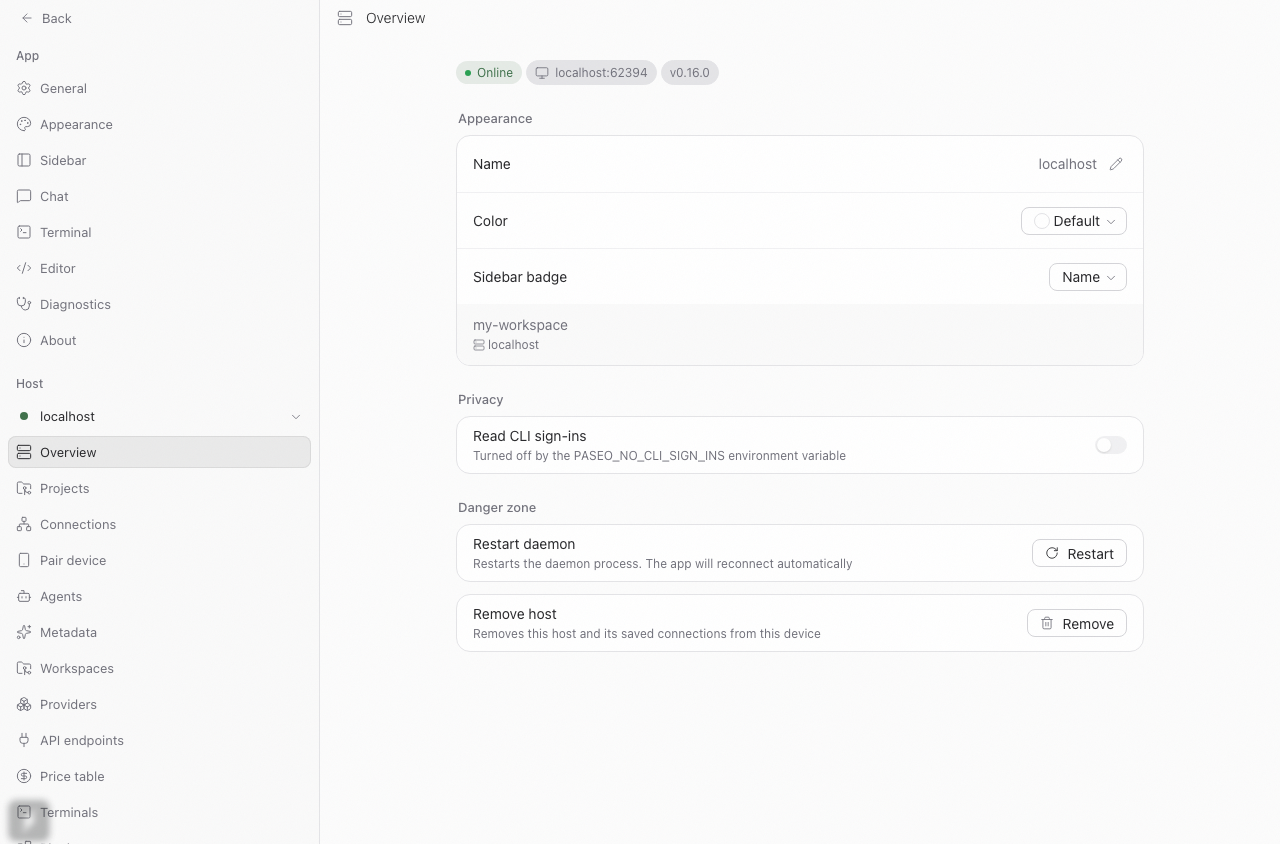
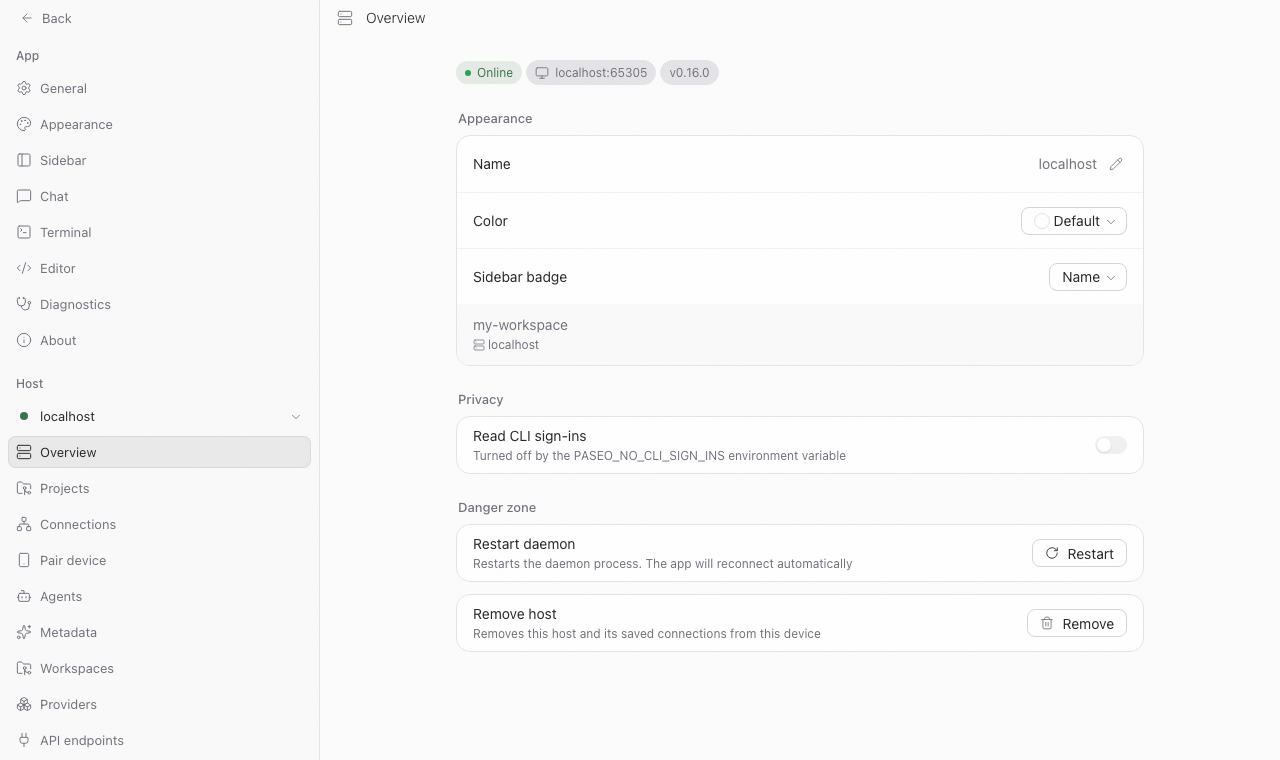
fix(privacy): 工单 04 审查修正

diff --git a/packages/server/src/server/plugins/usage-sources.e2e.test.ts b/packages/server/src/server/plugins/usage-sources.e2e.test.ts
@@ -434,51 +434,76 @@ test("with Read CLI sign-ins off no usage source runs, both lists are empty and 
   }
 }, 60_000);
 
-test("PASEO_NO_CLI_SIGN_INS holds Read CLI sign-ins off for the run: marked in the config, no source runs, the switch can't change and the stored value stays", async () => {
+test("PASEO_NO_CLI_SIGN_INS holds Read CLI sign-ins off for the run: marked in the config, no source runs, the switch can't change; restarted without it the stored value applies", async () => {
   const { readFile } = await import("node:fs/promises");
   const root = await mkdtemp(path.join(os.tmpdir(), "usage-cli-sign-ins-env-"));
   const calls = path.join(root, "calls.log");
   await writeFile(calls, "");
   const builtins = path.join(root, "builtin");
   await writeRecordingSource(path.join(builtins, "recording-builtin"), "recording-builtin", calls);
-  const daemon = await createTestPaseoDaemon({
-    daemonVersion: "0.9.2",
-    pluginsEnabled: true,
-    builtinPlugins: new BuiltinPluginLoader(builtins, ["recording-builtin"]),
-    readCliSignInsForcedOff: true,
-  });
-  const client = new DaemonClient({ url: `ws://127.0.0.1:${daemon.port}/ws`, appVersion: "0.9.2" });
-  const configFile = path.join(daemon.paseoHome, "config.json");
+  const paseoHomeRoot = path.join(root, "home");
+  const configFile = path.join(paseoHomeRoot, ".paseo", "config.json");
+  await mkdir(path.dirname(configFile), { recursive: true });
+  await writeFile(configFile, JSON.stringify({ readCliSignIns: true }));
   const readStored = async () =>
     (JSON.parse(await readFile(configFile, "utf8")) as { readCliSignIns?: boolean }).readCliSignIns;
-  try {
+  const start = (env: NodeJS.ProcessEnv) =>
+    createTestPaseoDaemon({
+      daemonVersion: "0.9.2",
+      pluginsEnabled: true,
+      builtinPlugins: new BuiltinPluginLoader(builtins, ["recording-builtin"]),
+      paseoHomeRoot,
+      cleanup: false,
+      cliSignInsLaunchEnv: env,
+    });
+  const connect = async (port: number) => {
+    const client = new DaemonClient({ url: `ws://127.0.0.1:${port}/ws`, appVersion: "0.9.2" });
     await client.connect();
-    const { config } = await client.getDaemonConfig();
-    expect(config.readCliSignInsForcedOff).toBe(true);
-    expect(config.readCliSignIns).toBe(true);
-    expect(await client.listUsageReports({ forceRefresh: true })).toEqual({
-      requestId: expect.any(String),
-      reports: [],
-      cliSignInsOff: true,
-    });
-    expect((await client.listProviderUsage()).providers).toEqual([]);
+    return client;
+  };
+  const refused =
+    "Read CLI sign-ins is held off by PASEO_NO_CLI_SIGN_INS, so it can't be changed here";
+  try {
+    const forced = await start({ PASEO_NO_CLI_SIGN_INS: "1" });
+    const client = await connect(forced.port);
+    try {
+      expect((await client.getDaemonConfig()).config).toMatchObject({
+        readCliSignIns: true,
+        readCliSignInsForcedOff: true,
+      });
+      expect(await client.listUsageReports({ forceRefresh: true })).toEqual({
+        requestId: expect.any(String),
+        reports: [],
+        cliSignInsOff: true,
+      });
+      expect((await client.listProviderUsage()).providers).toEqual([]);
+      await expect(client.patchDaemonConfig({ readCliSignIns: false })).rejects.toThrow(refused);
+      await expect(client.patchDaemonConfig({ readCliSignIns: true })).rejects.toThrow(refused);
+      expect(await readStored()).toBe(true);
+      expect(await recordedCalls(calls)).toEqual([]);
+    } finally {
+      await client.close();
+      await forced.close();
+    }
 
-    const storedBefore = await readStored().catch(() => undefined);
-    await expect(client.patchDaemonConfig({ readCliSignIns: false })).rejects.toThrow(
-      "Read CLI sign-ins is held off by PASEO_NO_CLI_SIGN_INS, so it can't be changed here",
-    );
-    await expect(client.patchDaemonConfig({ readCliSignIns: true })).rejects.toThrow(
-      "Read CLI sign-ins is held off by PASEO_NO_CLI_SIGN_INS, so it can't be changed here",
-    );
-    expect(await readStored().catch(() => undefined)).toBe(storedBefore);
-    expect((await client.getDaemonConfig()).config).toMatchObject({
-      readCliSignIns: true,
-      readCliSignInsForcedOff: true,
-    });
-    expect(await recordedCalls(calls)).toEqual([]);
+    // 去掉环境变量重启：生效值等于存的值（开），来源照常运行。
+    const restarted = await start({});
+    const again = await connect(restarted.port);
+    try {
+      const { config } = await again.getDaemonConfig();
+      expect(config.readCliSignIns).toBe(true);
+      expect(config).not.toHaveProperty("readCliSignInsForcedOff");
+      const back = await again.listUsageReports();
+      expect(back.reports.map((entry) => entry.id)).toEqual(["recording-builtin:one"]);
+      expect((await recordedCalls(calls)).sort()).toEqual([
+        "recording-builtin discover",
+        "recording-builtin fetch",
+      ]);
+    } finally {
+      await again.close();
+      await restarted.close();
+    }
   } finally {
-    await client.close();
-    await daemon.close();
     await rm(root, { recursive: true, force: true });
   }
 }, 60_000);

diff --git a/packages/server/src/server/test-utils/paseo-daemon.ts b/packages/server/src/server/test-utils/paseo-daemon.ts
@@ -17,6 +17,7 @@ import type { AgentProfile } from "@getpaseo/protocol/messages";
 import { AGENT_PROVIDER_DEFINITIONS } from "@getpaseo/protocol/provider-manifest";
 import { FakeHostProcesses } from "./fake-host-processes.js";
 import { BALANCE_VENDOR_URLS } from "../api-endpoints/balance.js";
+import { loadConfig } from "../config.js";
 
 interface TestPaseoDaemonOptions {
   daemonVersion?: string;
@@ -55,7 +56,11 @@ interface TestPaseoDaemonOptions {
   agentProfiles?: AgentProfile[];
   autoArchiveAfterMerge?: boolean;
   pluginsEnabled?: PaseoDaemonConfig["pluginsEnabled"];
-  readCliSignInsForcedOff?: PaseoDaemonConfig["readCliSignInsForcedOff"];
+  /**
+   * 照真实启动解析「读取 CLI 登录凭证」：读这个 home 的 config.json 加这份环境变量（如 PASEO_NO_CLI_SIGN_INS）。
+   * 不传时开关为开、没有环境变量。
+   */
+  cliSignInsLaunchEnv?: NodeJS.ProcessEnv;
   builtinPlugins?: BuiltinPluginLoader;
   plugins?: PaseoDaemonConfig["plugins"];
   usage?: PaseoDaemonConfig["usage"];
@@ -226,7 +231,7 @@ async function prepareTestDaemonConfig(
     agentProfiles: options.agentProfiles,
     autoArchiveAfterMerge: options.autoArchiveAfterMerge,
     pluginsEnabled: options.pluginsEnabled,
-    readCliSignInsForcedOff: options.readCliSignInsForcedOff,
+    ...resolveCliSignInsAtLaunch(paseoHome, options.cliSignInsLaunchEnv),
     plugins: options.plugins,
     // Default to no log roots so a test daemon never scans the developer's
     // real Claude/Codex/Pi/OMP transcripts.
@@ -352,4 +357,16 @@ function isLoopbackUrl(baseUrl: string): boolean {
   if (!URL.canParse(baseUrl)) return false;
   const host = new URL(baseUrl).hostname;
   return host === "127.0.0.1" || host === "localhost" || host === "[::1]";
+}
+
+function resolveCliSignInsAtLaunch(
+  paseoHome: string,
+  env: NodeJS.ProcessEnv | undefined,
+): Pick<PaseoDaemonConfig, "readCliSignIns" | "readCliSignInsForcedOff"> {
+  if (!env) return {};
+  const launched = loadConfig(paseoHome, { env });
+  return {
+    readCliSignIns: launched.readCliSignIns,
+    readCliSignInsForcedOff: launched.readCliSignInsForcedOff,
+  };
 }

diff --git a/packages/server/src/server/config.test.ts b/packages/server/src/server/config.test.ts
@@ -54,6 +54,7 @@ describe("server config", () => {
         forcedOff: true,
       });
       expect(config.readCliSignIns).toBe(true);
+      expect(config.configReload?.overrideControlledPaths).toEqual(["readCliSignIns"]);
     }
     for (const value of ["", "  ", "0", "false", " FALSE "]) {
       const config = loadConfig(paseoHome, { env: { PASEO_NO_CLI_SIGN_INS: value } });
@@ -66,6 +67,7 @@ describe("server config", () => {
     const restarted = loadConfig(paseoHome, { env: {} });
     expect(restarted.readCliSignInsForcedOff).toBe(false);
     expect(restarted.readCliSignIns).toBe(true);
+    expect(restarted.configReload?.overrideControlledPaths).toEqual([]);
     expect(loadPersistedConfig(paseoHome).readCliSignIns).toBe(true);
   });
 

diff --git a/packages/server/src/server/config.ts b/packages/server/src/server/config.ts
@@ -713,6 +713,7 @@ function resolveOverrideControlledPaths(
       ...resolveLogOverrideControlledPaths(env),
       ...resolveSpeechOverrideControlledPaths(env, speechProviders),
       ...resolveUsageOverrideControlledPaths(env),
+      ...(isNoCliSignInsSet(env.PASEO_NO_CLI_SIGN_INS) ? ["readCliSignIns"] : []),
     ]),
   ).sort();
 }
